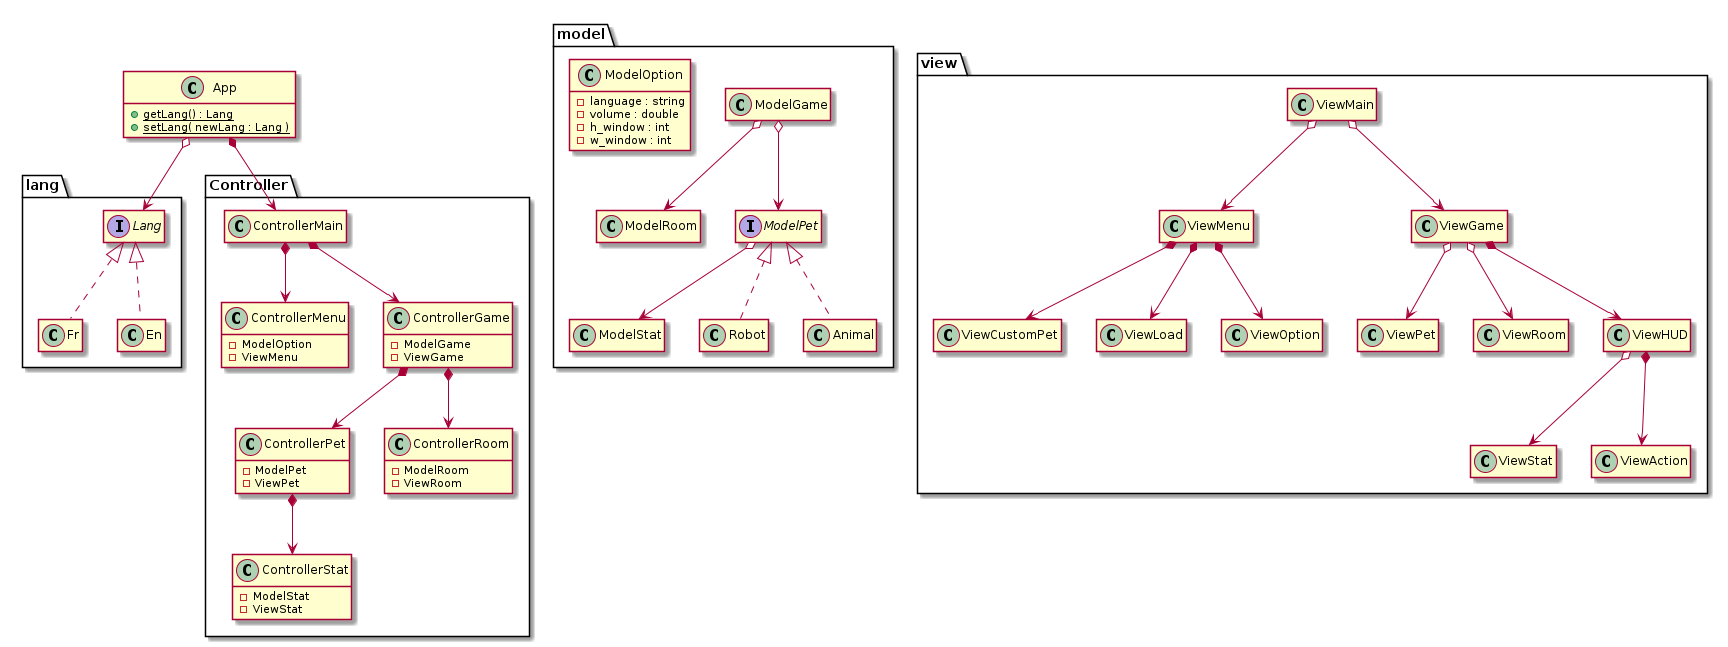
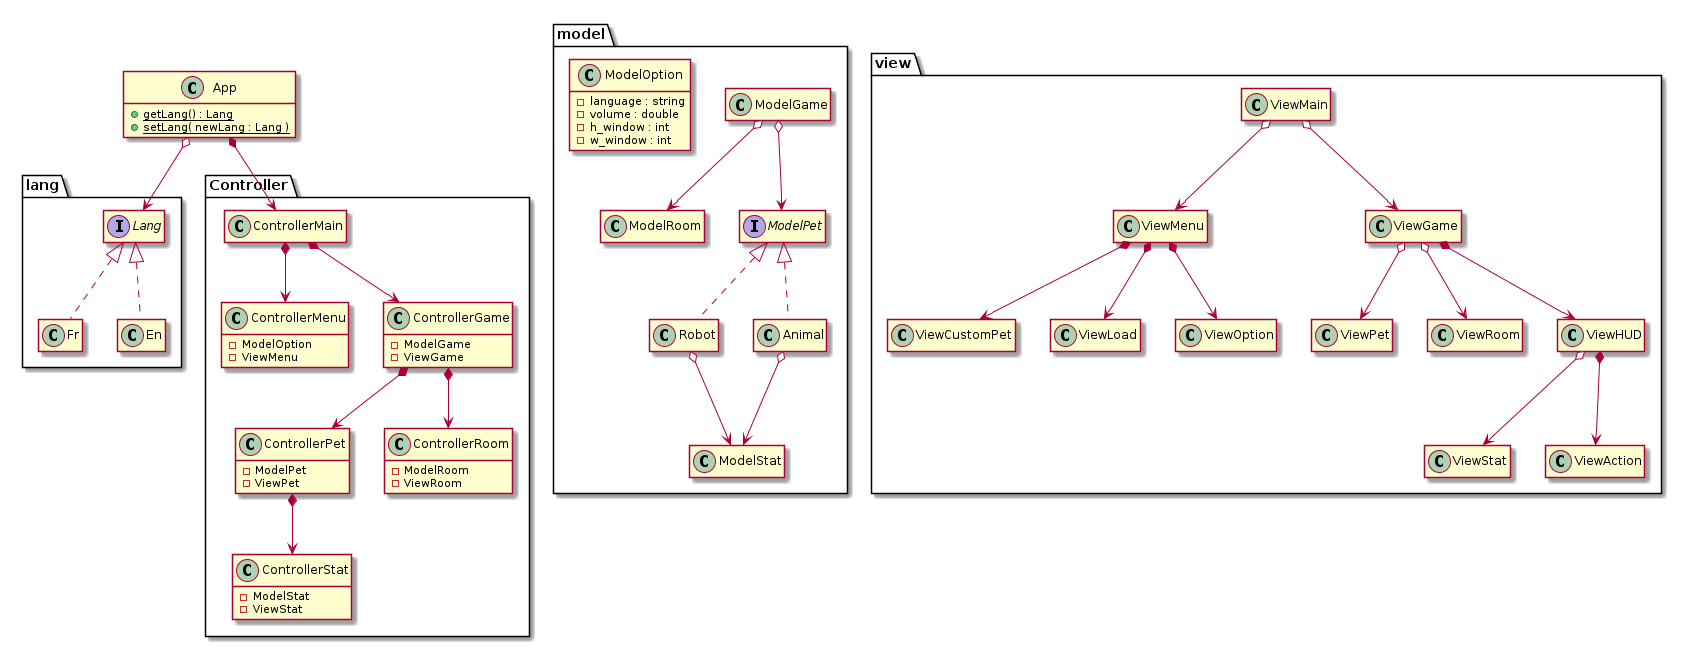
update - correction d'erreur

diff --git a/src/app/model/Robot.java b/src/app/model/Robot.java
@@ -1,0 +1,15 @@
+package app.model;
+
+/**
+ * 
+ * @author ben
+ * L'animal à prendre soin
+ */
+public class Robot implements Pet {
+
+	// il y aura plusieurs Stat, restons avec une pour le moment
+	// TODO choisir une strucutre de donnée pour les stocker
+	//      ou on les liste une par une sans structure de donnée
+	// ATTENTION: Reference partagé avec constroller.Stat
+	private Stat test;
+}
